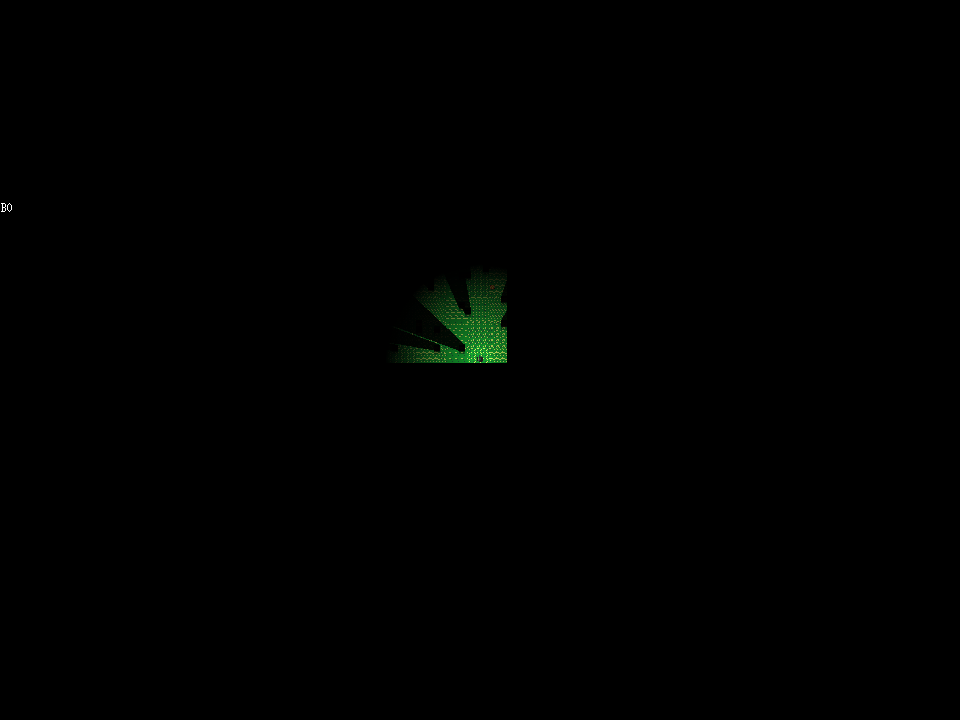
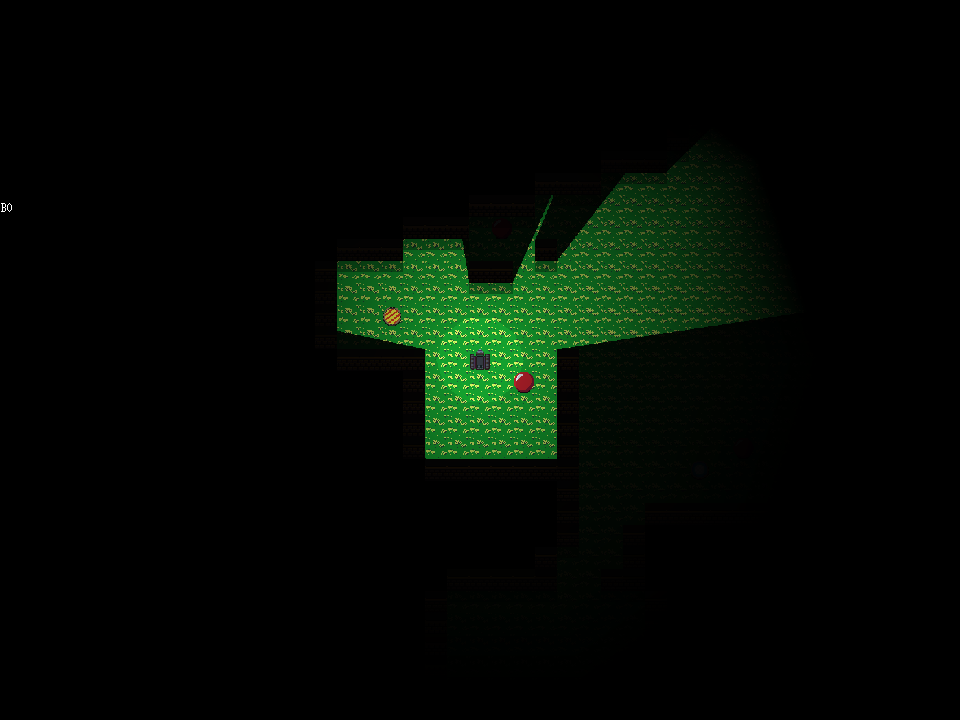
chore: adjust VRT

Changed region(s): [[0.3438, 0.2139, 0.8125, 0.6417]]

diff --git a/lib/mapbuilder/level.go b/lib/mapbuilder/level.go
@@ -20,7 +20,7 @@ func NewLevel(world w.World, width gc.Row, height gc.Col) resources.Level {
 	chain := SimpleRoomBuilder(width, height)
 	chain.Build()
 
-	// ワープホールを生成する
+	// 進行ワープホールを生成する
 	// FIXME: たまに届かない位置に生成される
 	{
 		failCount := 0
@@ -39,7 +39,7 @@ func NewLevel(world w.World, width gc.Row, height gc.Col) resources.Level {
 			failCount++
 		}
 	}
-
+	// 帰還ワープホールを生成する
 	if gameResources.Depth%5 == 0 {
 		failCount := 0
 		for {

diff --git a/lib/vrt/vrt.go b/lib/vrt/vrt.go
@@ -35,8 +35,8 @@ func (g *TestGame) Update() error {
 	// テストの前に実行される
 	g.StateMachine.Update(g.World)
 
-	// 1フレームだけ実行する。更新→描画の順なので、1度は更新しないと描画されない
-	if g.gameCount < 1 {
+	// 10フレームだけ実行する。更新→描画の順なので、1度は更新しないと描画されない
+	if g.gameCount < 10 {
 		g.gameCount += 1
 		return nil
 	}

diff --git a/lib/states/intro.go b/lib/states/intro.go
@@ -29,7 +29,7 @@ func (st IntroState) String() string {
 var introText = `
 [image source="bg_urban1"]
 
-人類は遺跡とともにあった。[p]
+遺跡。[p]
 粗末な装備で怪物と財宝に満ちた遺跡に挑み、[p]
 
 [image source="bg_crystal1"]
